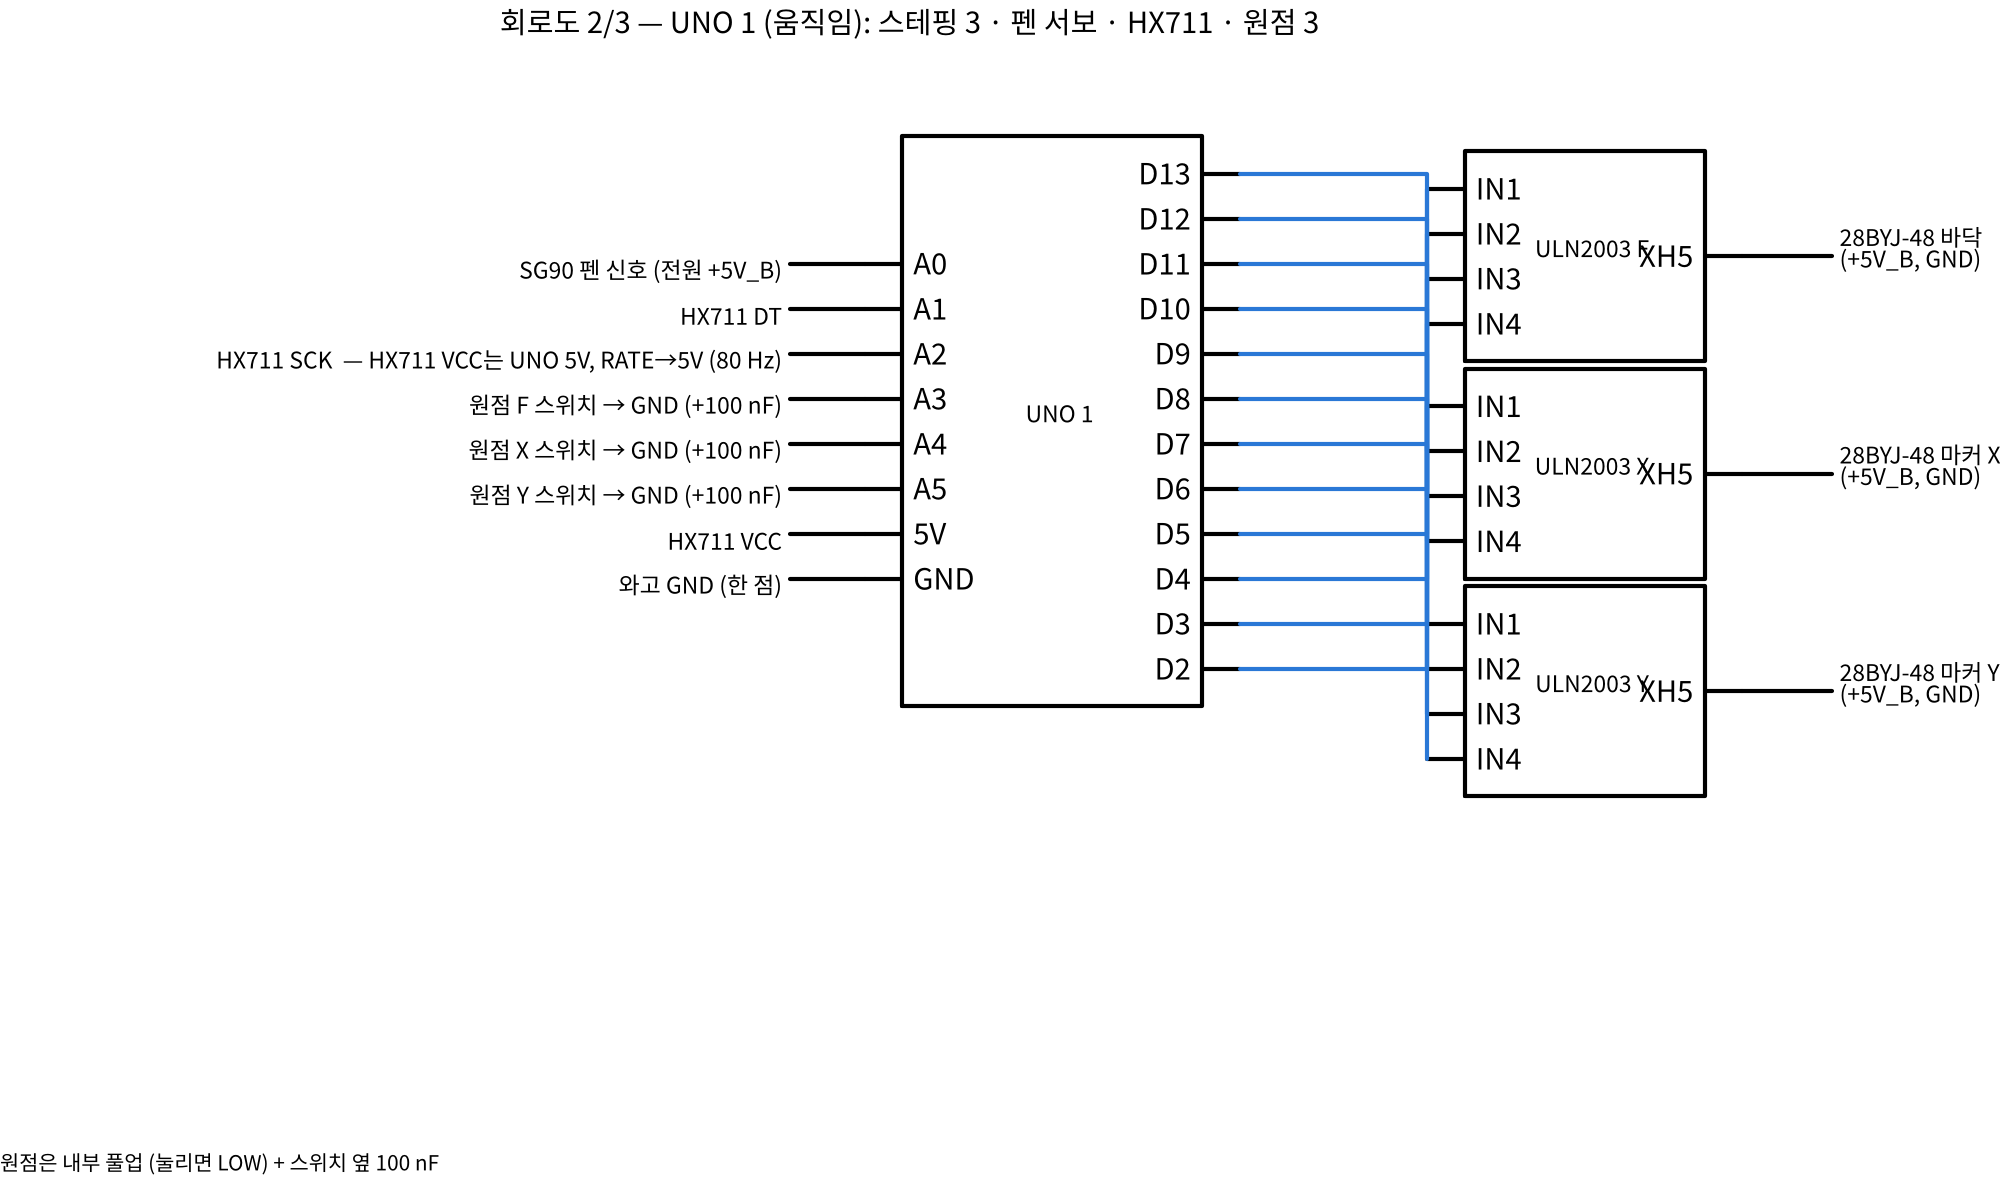
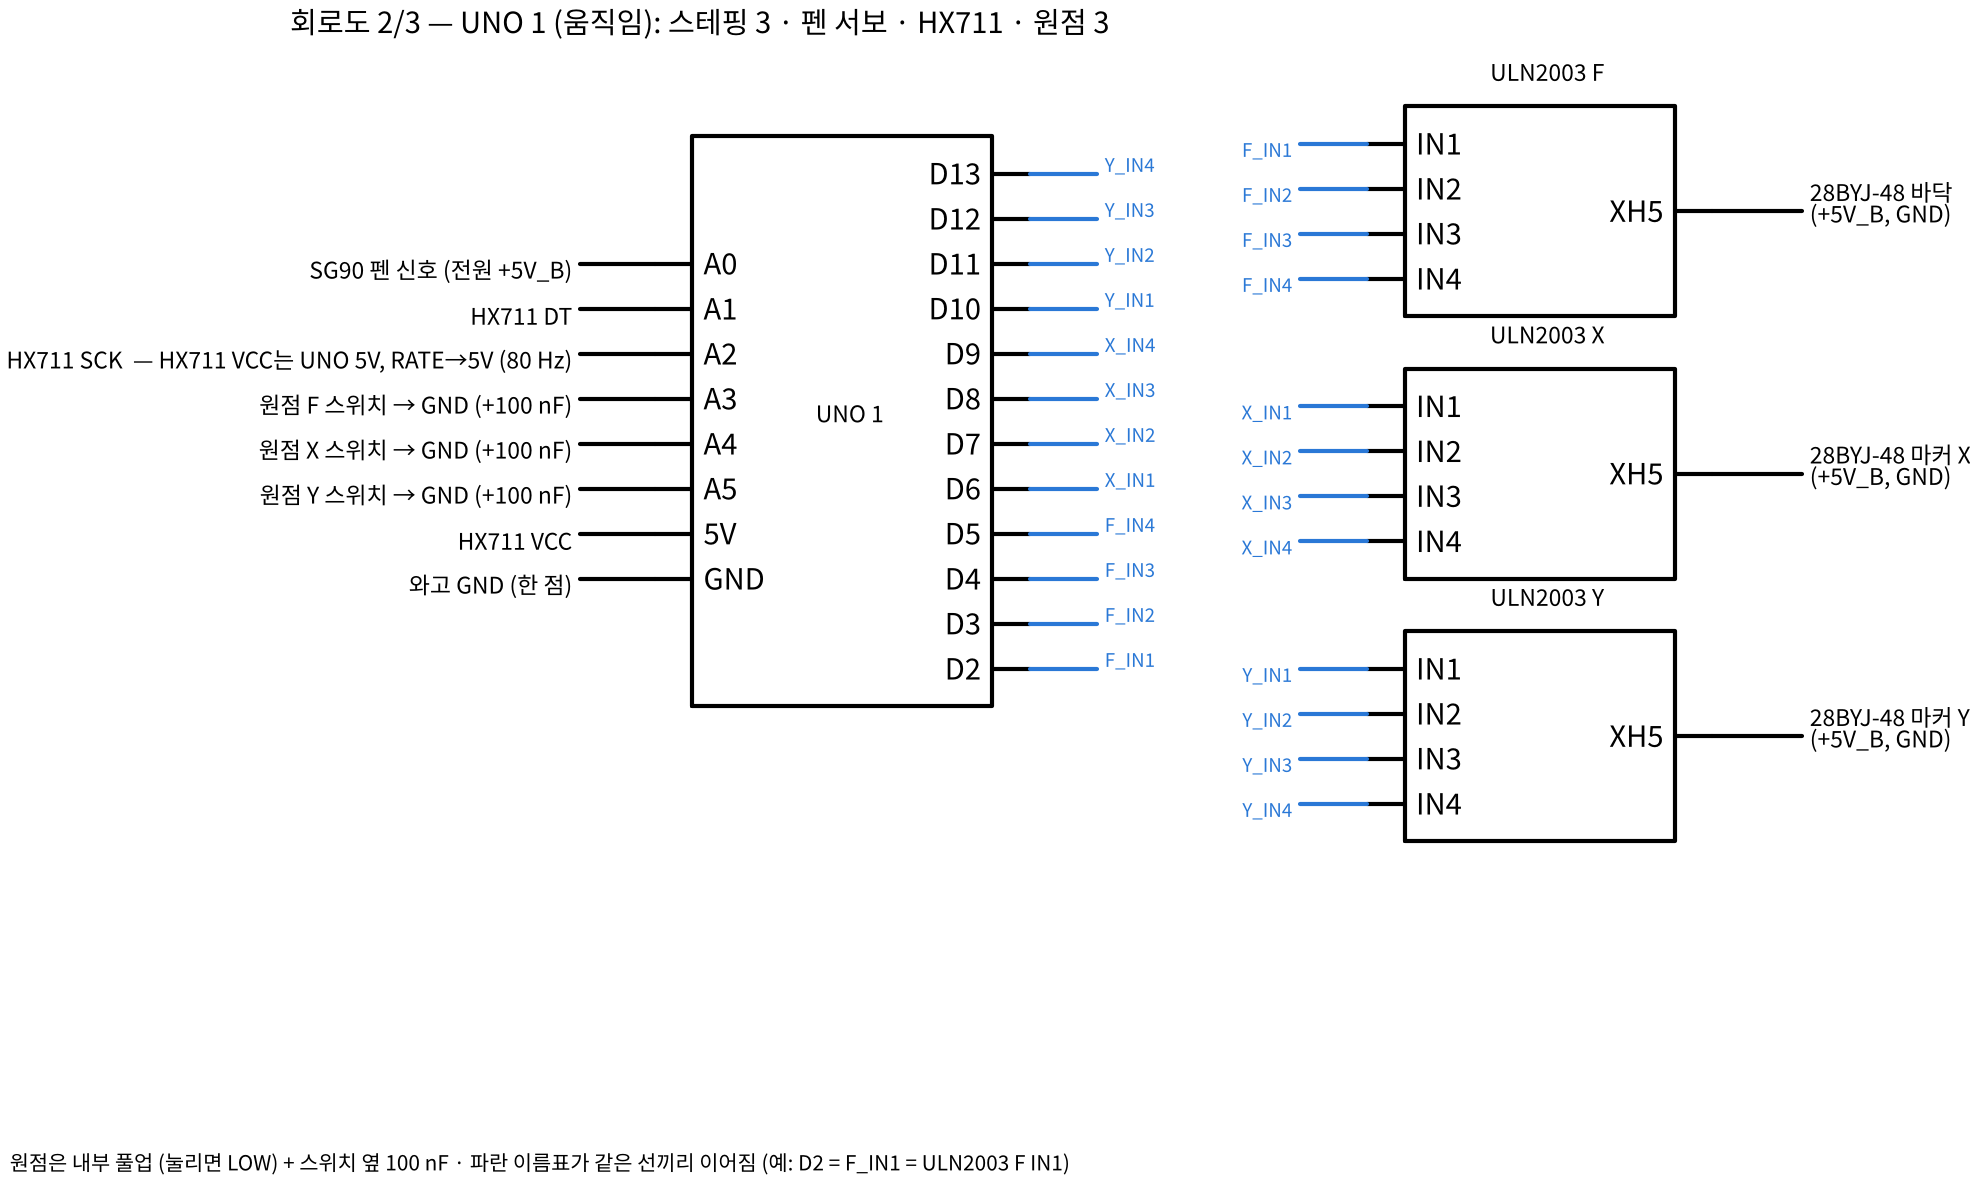
[서현] 브레드보드 단계별 배선 안내 + 시험 스케치 4개, 회로도 1·2장 다듬기(2장 선 모임 오류 → 넷 라벨)
Claude-Session: https://claude.ai/code/session_01Jzg83D8Aa1A65w4ViX2JyU

diff --git a/design/circuit/circuit.py b/design/circuit/circuit.py
@@ -193,22 +193,22 @@ def sheets():
     # --- 1장: 전원 ---
     with schemdraw.Drawing(file=os.path.join(IMG, "회로도_1_전원.png"), show=False, dpi=150) as d:
         d += elm.Label().label("회로도 1/3 — 전원 (콘센트 기본, 같은 플러그로 배터리 상자)", fontsize=14).at((0, 4.2))
-        jb = elm.Ic(pins=[P("+", "right", "pin1"), P("−", "right", "pin2")], edgepadW=1.2, label="DC 잭\n5 V 3 A\n(또는 배터리\n상자 5 V 3 A)").at((0, 0))
+        jb = elm.Ic(pins=[P("−", "right", "pin2"), P("+", "right", "pin1")], edgepadW=1.2, label="DC 잭\n5 V 3 A\n(또는 배터리\n상자 5 V 3 A)").at((0, 0))
         d += jb
         d += elm.Line().right(0.8).at(jb.pin1)
-        d += (f := elm.Fuse().right().label("F1\nT2.5A", loc="top"))
+        d += (f := elm.Fuse().right().label("F1\n5×20 3 A", loc="top"))
         d += (sw := elm.Switch(nc=True).right().label("비상 정지\n(NC)", loc="top"))
         d += (n1 := elm.Dot())
         d += elm.Line().right(1.5)
-        d += (tb := elm.Dot().label("+5V_B (와고 묶음)", loc="bottom"))
-        d += elm.Capacitor(polar=True).down(2).at(n1.center).label("C1\n1000 µF", loc="bottom")
+        d += (tb := elm.Dot().label("+5V_B\n(와고 묶음)", loc="top"))
+        d += elm.Capacitor(polar=True).down(2).at(n1.center).label("C1 1000 µF\n(서보 허브)", loc="top")
         d += (g1 := elm.Dot())
         d += elm.Capacitor().down(2).at((n1.center[0] + 1.5, n1.center[1])).label("C2 0.1 µF", loc="bottom")
         d += elm.Line().left(1.5)
-        d += elm.Wire("-|").at(jb.pin2).to((g1.center[0] - 0.6, g1.center[1]))
+        d += elm.Wire("-|").at(jb.pin2).to((g1.center[0] - 2.8, g1.center[1]))
         d += elm.Line().tox(g1.center)
         d += elm.Ground().at(g1.center)
-        d += elm.Resistor().right(2.5).at(tb.center).label("R_RS 10 kΩ", loc="top")
+        d += elm.Resistor().right(2.5).at(tb.center).label("R_RS 10 kΩ", loc="bottom")
         d += elm.Label().label("→ UNO 2 D2 (레일 감지)", loc="right")
         d += elm.Label().label("GND 한 점 (와고 GND 묶음) ← UNO 1 GND, UNO 2 GND, 서보·게이트·ULN2003 GND", fontsize=10, halign="left").at((-1, -3.8))
         d += elm.Label().label("+5V_B → ULN2003 ×3, SG90, MG90S ×3, 게이트 수신·송신 ×9, 풀업 10 kΩ ×9, 조명 ×2", fontsize=10, halign="left").at((-1, -4.4))
@@ -239,14 +239,20 @@ def sheets():
         u = elm.Ic(pins=[P(p, "right") for p in right] + [P(p, "left", "p" + p) for p in left[::-1]],
                    edgepadH=0.5, pinspacing=0.6, edgepadW=2.0, label="UNO 1").at((0, 0))
         d += u
+        # 11/06 다듬기: 선을 한 줄로 모으면 모든 핀이 이어진 것처럼 보임 → 같은 이름표(넷 라벨)끼리 이어진 것으로 그림
         for k, ax in enumerate("FXY"):
             ul = elm.Ic(pins=[P("IN%d" % i, "left") for i in range(4, 0, -1)] + [P("XH5", "right")],
-                        pinspacing=0.6, edgepadW=1.2, label="ULN2003 %s" % ax).at((7.5, 4.6 - k * 2.9))
+                        pinspacing=0.6, edgepadW=1.6, label="").at((9.5, 5.2 - k * 3.5))
             d += ul
+            d += elm.Label().label("ULN2003 %s" % ax, fontsize=11).at((ul.center[0], ul.center[1] + 1.75))
             for i in range(4):
                 a = getattr(u, right[k * 4 + i])
                 b = getattr(ul, "IN%d" % (i + 1))
-                d += elm.Wire("-|").at(a).to(b).color("#2a78d6")
+                net = "%s_IN%d" % (ax, i + 1)
+                d += elm.Line().right(0.9).at(a).color("#2a78d6")
+                d += elm.Label().label(net, loc="right", fontsize=9).color("#2a78d6")
+                d += elm.Line().left(0.9).at(b).color("#2a78d6")
+                d += elm.Label().label(net, loc="left", fontsize=9).color("#2a78d6")
             d += elm.Line().right(1.2).at(ul.XH5)
             d += elm.Label().label("28BYJ-48 %s\n(+5V_B, GND)" % {"F": "바닥", "X": "마커 X", "Y": "마커 Y"}[ax], loc="right")
         for p, txt in (("A0", "SG90 펜 신호 (전원 +5V_B)"), ("A1", "HX711 DT"), ("A2", "HX711 SCK  — HX711 VCC는 UNO 5V, RATE→5V (80 Hz)"),
@@ -256,7 +262,7 @@ def sheets():
         for p, ax in (("A3", "F"), ("A4", "X"), ("A5", "Y")):
             d += elm.Line().left(1.0).at(getattr(u, "p" + p))
             d += elm.Label().label("원점 %s 스위치 → GND (+100 nF)" % ax, loc="left")
-        d += elm.Label().label("원점은 내부 풀업 (눌리면 LOW) + 스위치 옆 100 nF", fontsize=10).at((-9, -6))
+        d += elm.Label().label("원점은 내부 풀업 (눌리면 LOW) + 스위치 옆 100 nF · 파란 이름표가 같은 선끼리 이어짐 (예: D2 = F_IN1 = ULN2003 F IN1)", fontsize=10, halign="left").at((-9, -6))
 
     # --- 3장: UNO 2 ---
     with schemdraw.Drawing(file=os.path.join(IMG, "회로도_3_UNO2_문게이트조명.png"), show=False, dpi=150) as d:

diff --git a/design/2026-11-06_브레드보드_단계별_배선_서현.md b/design/2026-11-06_브레드보드_단계별_배선_서현.md
@@ -1,0 +1,117 @@
+# 브레드보드 단계별 배선 — 하나씩 꽂고, 하나씩 확인
+
+정리: 2026-11-06 21시 · 이서현 (Claude, **CAP-AI-33**, 제어·회로 위임). 도면(D5g)과 상관없이 지금 할 수 있는 '회로 논리' 시험.
+
+**바탕**
+- 핀: `design/2026-11-06_회로설계_서현.md`
+- 선 번호: `design/2026-11-06_하네스표_서현.md` (P·S·M·V·G·L 번호)
+- 시험 스케치: `design/circuit/bringup/` (회로 시험용 — 펌웨어는 승준 `control/firmware/`)
+
+> **[확실] 스케치 4개는 이 환경에서 컴파일하지 못했다** (아두이노 컴파일러 설치가 막힘). 처음 올릴 때 Arduino IDE에서 '확인(✓)'부터 누르고, 오류가 나면 Issue #7이나 이 문서에 적는다.
+
+## 0. 쉬운 설명 (초등학생용)
+- **브레드보드**는 구멍이 줄줄이 뚫린 판이에요. 납땜 없이 선을 꽂았다 뺐다 할 수 있어요. 같은 줄 구멍끼리는 속에서 이어져 있어요.
+- 레고처럼 **한 번에 한 칸씩** 쌓아요. 한 단계를 꽂으면 바로 확인하고, 잘 되면 다음 단계로 가요. 한꺼번에 다 꽂으면 안 될 때 어디가 틀렸는지 못 찾아요.
+- 단계마다 **"이렇게 되면 통과"** 가 정해져 있어요. 통과 못 하면 다음 단계로 가지 않아요.
+
+## 1단계 — 힘 전기 길만 (아두이노 없음)
+| 꽂을 것 | 선 번호 |
+|---|---|
+| 5 V 3 A 어댑터 → DC 잭 → 퓨즈 → 비상 정지 → 와고 +5V 묶음 | P01, P03, P04 |
+| DC 잭 − → 와고 GND 묶음 | P02 |
+
+**확인 (테스터)**
+1. 와고 +5V ↔ GND: **4.75~5.25 V**
+2. 비상 정지를 누르면: **0 V**. 다시 돌려 풀면 5 V
+3. 극성: 빨강이 +인지 (테스터가 −5 V를 보이면 잭 선을 바꿈)
+
+**통과 못 하면:** 퓨즈가 끊겼는지, 비상 정지가 NC(평소 붙음)인지 확인한다. NO를 샀으면 단자를 바꾼다.
+
+## 2단계 — UNO 2 + 빛 게이트 1쌍 (자가 시험)
+| 꽂을 것 | 선 번호 / 핀 |
+|---|---|
+| 와고 → 게이트 허브(브레드보드 한쪽 줄) +5V·GND | P08 |
+| 수신 흰 선 + **10 kΩ 풀업(+5V)** → UNO 2 **A0** | S11 (G1) |
+| 송신 검정 → MOSFET(또는 릴레이) → GND, 켜기 신호 ← UNO 2 **D4** | S11 (EMIT_EN) |
+| +5V_B → 10 kΩ → UNO 2 **D2** (레일 감지) | P11 |
+| UNO 2 GND → 와고 GND (**꼭**) | P10 |
+| UNO 2 USB → PC (나중에 Pi) | — |
+
+**스케치:** `bringup/b2_gate/b2_gate.ino`
+
+**확인 (시리얼 모니터 115200)**
+1. 손으로 빛을 가리면 `BLOCK`, 떼면 `CLEAR`
+2. `s` 입력 → `SELFTEST off=OK on=OK`
+3. 비상 정지를 누르면 `RAIL=0`, 풀면 `RAIL=1`
+
+**MOSFET이 아직 없으면:** 보유 릴레이 모듈로 송신 GND를 끊는다. 자가 시험 1회는 할 수 있다 (딸깍 소리).
+
+## 3단계 — 문 서보 1개 + 문 빔 2개 (끼임 방지 규칙)
+| 꽂을 것 | 선 번호 / 핀 |
+|---|---|
+| 와고 → 서보 허브 +5V·GND, 허브에 **1000 µF** (+ 다리를 +5V로) | P07 |
+| 입구 문 서보 → 허브 S2, 신호 ← UNO 2 **D9** | V02, S10 |
+| G2 → **A1**, G2b → **A2** (각 10 kΩ 풀업) | G02, G03 |
+
+**스케치:** `bringup/b3_door/b3_door.ino`
+- 열림·닫힘 각도 `ANG_OPEN`·`ANG_CLOSED`는 실물에서 맞춘다.
+
+**확인**
+1. `c` → `CLOSED`
+2. 빔을 손으로 막은 채 `c` → `WAIT`가 계속 나오고 **문이 안 움직임**
+3. 닫는 중에 빔을 끊으면 → `REOPEN try=1` (바로 다시 열림)
+4. 계속 막고 있으면 3번 뒤 `BLOCKED`
+5. (가능하면) 테스터를 전류로 놓고 서보 선에 끼워 움직일 때 전류를 본다 → 0.7 A 안팎 [가능성 높음]
+
+## 4단계 — UNO 1 + 바닥 축 (원점)
+| 꽂을 것 | 선 번호 / 핀 |
+|---|---|
+| 와고 → ULN2003 F 전원 | P04 |
+| UNO 1 **D2~D5** → ULN F IN1~IN4 | S01 |
+| ULN F → 바닥 모터 (모터에 달린 5핀 그대로) | M01 |
+| 원점 F: **A3** ↔ 스위치 NO, COM → GND, 100 nF 병렬 | S07 |
+| UNO 1 GND → 와고 GND | P10 |
+
+**스케치:** `bringup/b4_axis/b4_axis.ino`
+
+**확인**
+1. `u` → 모터가 한 방향으로 돎. `d` → 반대로 돎
+2. `h` → 내려가다 스위치를 누르면 멈추고 `HOME OK 걸음수`. **손으로 스위치를 눌러도 멈춰야 함**
+3. 멈춘 뒤 모터·ULN이 뜨겁지 않음 (코일 끔 — HOLD F 0)
+4. 방향이 반대면 → 스케치의 `stepOnce(-1)`·`(+1)`을 서로 바꿈 (선을 다시 꽂지 않음)
+
+이렇게 되면 X·Y 축도 같은 방법으로 한다: S02·M02·S08 (D6~D9, A4), S03·M03·S09 (D10~D13, A5).
+
+## 5단계 — 로드셀 + 전부 연결
+| 꽂을 것 | 선 번호 / 핀 |
+|---|---|
+| UNO 1 5V·GND·**A1**(DT)·**A2**(SCK) → HX711 | S05 |
+| HX711 E+·E−·A−·A+ → 로드셀 빨강·검정·흰색·초록 | S06 |
+| HX711 RATE 다리 → 5V (80 Hz) | — |
+
+**스케치:** `bringup/b5_loadcell/b5_loadcell.ino`
+
+**확인**
+1. `t`(0점) → `g=0.00` 근처
+2. 100 g 추를 올리고 `k` → 이후 g로 나옴, `sd` **0.1 g 이하** [가능성 높음 — 목표]
+3. 무게를 올렸는데 숫자가 줄면 A+·A−를 바꿈
+
+**전부 연결 (마지막):**
+- 3단계 서보 3개, 4단계 축 3개, 펜 서보, 조명 MOSFET을 모두 꽂는다.
+- 이 단계는 승준 펌웨어로 켠다.
+- 테스터를 와고 입력에 전류 모드로 끼우고 확인한다:
+  - 켤 때 **1.9 A 아래** — 서보는 한 번에 하나씩 (전기계통 문서 peak 1.86 A)
+  - 퓨즈가 안 끊어짐
+
+## 6. 사진 찍을 곳 (기록용)
+- 단계마다 ① 브레드보드 전체, ② UNO 핀 쪽 가까이, ③ 시리얼 모니터 화면(통과 줄)
+- 파일 이름: `bringup_2단계_YYMMDD_HHMM.jpg` → `test/` 폴더 (전화번호·학번이 찍히지 않게)
+
+## 7. 가진 것으로 먼저 해 볼 수 있는 것 (부품 오기 전)
+| 단계 | 대신 쓰는 것 | 못 하는 것 |
+|---|---|---|
+| 1 | 보유 5 V 어댑터가 없으면 → 못 함 (Pi 27 W는 USB-C라 안 씀) | — |
+| 2 | 빛 게이트 대신 키트 LED + 포토레지스터 (아날로그로 읽음) | 열린 컬렉터 풀업 시험 |
+| 3 | 보유 MG90S 1개(혼 없음 — 테이프로 표시) + SG90 | 문 3개 동시 전류 |
+| 4 | 보유 28BYJ-48 + ULN2003 1세트, 원점은 키트 택트 버튼 | X·Y 축 |
+| 5 | — (HX711·로드셀 없음) | 전부 |

diff --git a/ai-log/AI_명령사항_로그.md b/ai-log/AI_명령사항_로그.md
@@ -503,3 +503,12 @@
 - 미검증: 허브 자리·D5g 실제 좌표, 기본 선 길이(서보 250·모터 240 [가능성 높음])
 - 다음: 브레드보드 단계별 배선 안내 → 회로도 다듬기 → 배터리 상자 → 인터페이스 정의서
 - (20:35 보탬) 승준 구매 M22(와고 221-415 ×2)·CAD와 맞추려고 **와고를 221-415로 되돌림** (와고에는 20~22 AWG만 꽂으므로 221로 충분), 개수는 5개 필요하다고 Issue로 알림
+
+## CAP-AI-33 — 2026-11-06 20:36 · 회로 논리: 브레드보드 단계별 배선 + 회로도 다듬기
+- 명령: "오케이 회로논리 설계해. 다음 할 일을 진행해." (앞 질문: 도면 먼저냐 → 회로 논리는 도면과 별개, 하네스 길이만 도면 뒤)
+- 한 일
+  - `design/2026-11-06_브레드보드_단계별_배선_서현.md`: 1단계 힘 전기 길 → 2단계 UNO 2 + 빛 게이트(자가 시험·레일 감지) → 3단계 문 서보 + 문 빔 2개(끼임 방지) → 4단계 UNO 1 + 바닥 축(원점) → 5단계 로드셀 + 전부 연결(1.9 A 아래). 단계마다 꽂을 것(하네스 번호·핀)·통과 기준·안 될 때, 사진 기록, 부품 오기 전 대신 쓸 것, 쉬운 설명
+  - 시험 스케치 `design/circuit/bringup/` b2_gate, b3_door, b4_axis, b5_loadcell (회로 시험용, 펌웨어 아님 — HX711은 라이브러리 없이 직접 읽음)
+  - 회로도 다듬기: **2장에서 D2~D13 선이 한 세로줄로 모여 전부 이어진 것처럼 보이던 오류**를 넷 라벨(F_IN1…Y_IN4)로 고침, ULN 이름 겹침 고침; 1장 GND 선이 C1 이름 위를 지나던 것·+5V_B 이름 겹침 고침, 퓨즈 표기 5×20 3 A. 세 장 열어서 확인
+- 미검증: **스케치 컴파일 못 함** (이 환경에서 아두이노 컴파일러 설치가 막힘) → 첫 업로드 때 IDE 확인. 서보 각도·로드셀 선 색은 실물
+- 다음: 배터리 상자 회로 → 인터페이스 정의서 (전원·센서 줄) → (D5g 뒤) 하네스 확정
